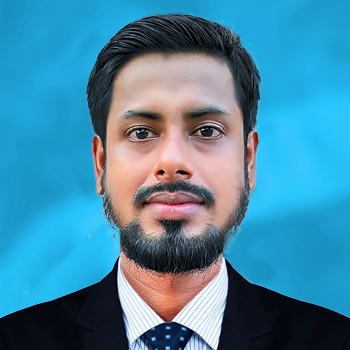
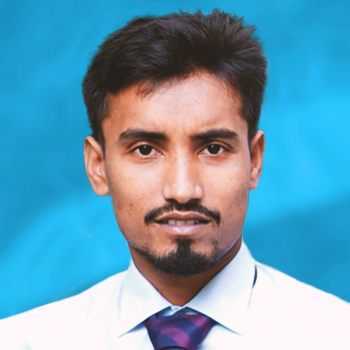
add the push

diff --git a/index.html b/index.html
@@ -455,9 +455,22 @@
             <!--// Screenshot Slideshow Area -->
 
             <!-- Team Member Area -->
-           <div class="row tm-team-slider tm-slider-arrow">
+            <div id="tm-area-team" class="tm-team-area tm-section tm-padding-section bg-grey">
+                <div class="tm-team-areabgshape">
+                    <img src="assets/images/team-area-bgshape.png" alt="ExpandTimes bg shape">
+                </div>
+                <div class="container">
+                    <div class="row justify-content-center">
+                        <div class="col-lg-8">
+                            <div class="tm-sectiontitle text-center">
+                                <h2>Meet The Team</h2>
+                                <span class="tm-sectiontitle-divider"><i class="zmdi zmdi-fullscreen"></i></span>
+                            </div>
+                        </div>
+                    </div>
+                    <div class="row tm-team-slider tm-slider-arrow">
     <!-- Member 1 -->
-    <div class="col-lg-4 col-md-6 col-12">
+     <div class="col-lg-4 col-md-6 col-12">
         <div class="tm-team text-center">
             <div class="tm-team-top">
                 <div class="tm-team-image">
@@ -504,7 +517,7 @@
             <div class="tm-team-top">
                 <div class="tm-team-image">
                     <div class="tm-team-imageinner">
-                        <img src="assets/images/team-member-.jpg" alt="ExpandTimes team member">
+                        <img src="assets/images/team-member-3.jpg" alt="ExpandTimes team member">
                     </div>
                 </div>
                 <button class="tm-team-socialtrigger"><i class="zmdi zmdi-share"></i></button>
@@ -520,6 +533,8 @@
     </div>
 </div>
 
+                </div>
+            </div>
             <!--// Team Member Area -->
 
             <!-- Testimonial Area -->
